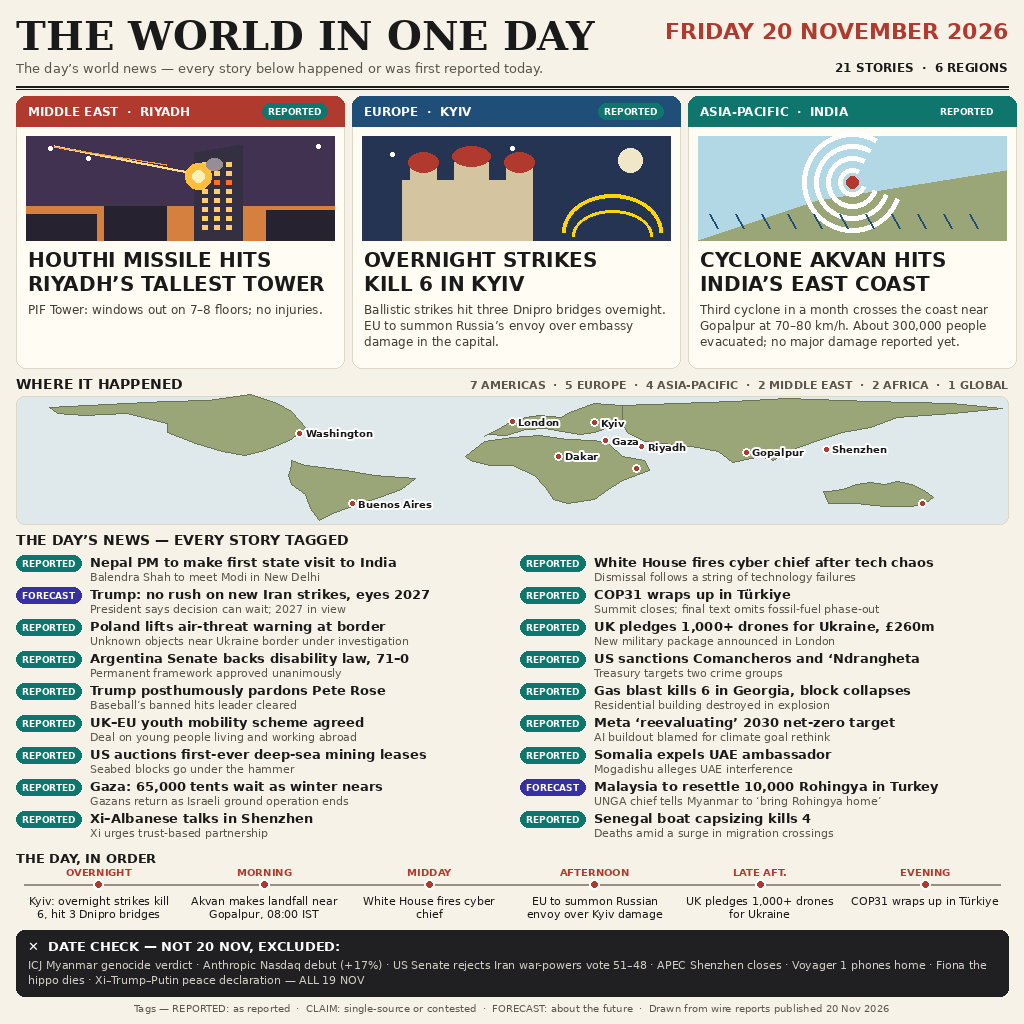
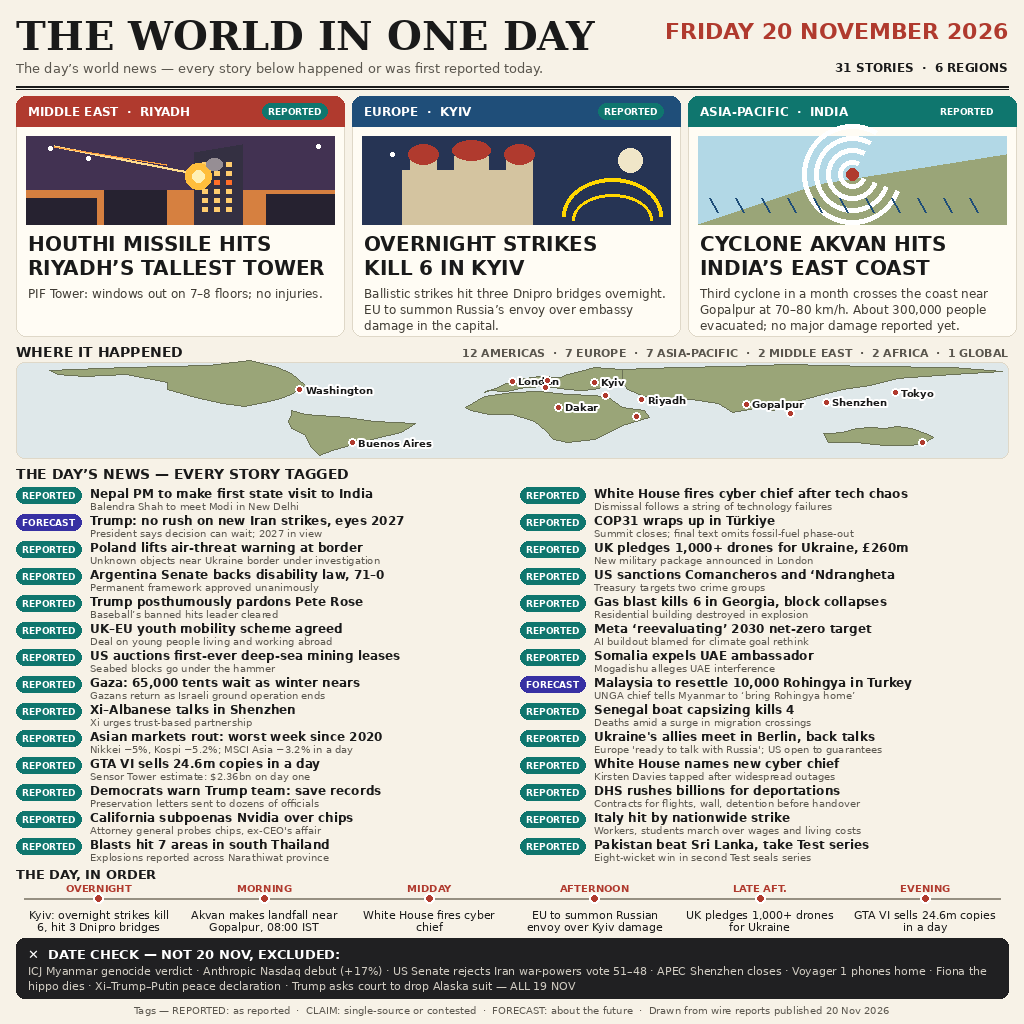
Add files via upload

Changed region(s): [[0.0, 0.125, 1.0, 1.0], [0.375, 0.125, 0.5312, 0.1875]]

diff --git a/draw.py b/draw.py
@@ -142,6 +142,26 @@ STORIES = [
      "Xi urges trust-based partnership", "REPORTED"),
     ("Senegal boat capsizing kills 4",
      "Deaths amid a surge in migration crossings", "REPORTED"),
+    ("Asian markets rout: worst week since 2020",
+     "Nikkei \u22125%, Kospi \u22125.2%; MSCI Asia \u22123.2% in a day", "REPORTED"),
+    ("Ukraine's allies meet in Berlin, back talks",
+     "Europe 'ready to talk with Russia'; US open to guarantees", "REPORTED"),
+    ("GTA VI sells 24.6m copies in a day",
+     "Sensor Tower estimate: $2.36bn on day one", "REPORTED"),
+    ("White House names new cyber chief",
+     "Kirsten Davies tapped after widespread outages", "REPORTED"),
+    ("Democrats warn Trump team: save records",
+     "Preservation letters sent to dozens of officials", "REPORTED"),
+    ("DHS rushes billions for deportations",
+     "Contracts for flights, wall, detention before handover", "REPORTED"),
+    ("California subpoenas Nvidia over chips",
+     "Attorney general probes chips, ex-CEO's affair", "REPORTED"),
+    ("Italy hit by nationwide strike",
+     "Workers, students march over wages and living costs", "REPORTED"),
+    ("Blasts hit 7 areas in south Thailand",
+     "Explosions reported across Narathiwat province", "REPORTED"),
+    ("Pakistan beat Sri Lanka, take Test series",
+     "Eight-wicket win in second Test seals series", "REPORTED"),
 ]
 
 TIMELINE = [
@@ -150,13 +170,14 @@ TIMELINE = [
     ("MIDDAY", "White House fires cyber chief"),
     ("AFTERNOON", "EU to summon Russian envoy over Kyiv damage"),
     ("LATE AFT.", "UK pledges 1,000+ drones for Ukraine"),
-    ("EVENING", "COP31 wraps up in Türkiye"),
+    ("EVENING", "GTA VI sells 24.6m copies in a day"),
 ]
 
 EXCLUDED = ("ICJ Myanmar genocide verdict  ·  Anthropic Nasdaq debut (+17%)  ·  "
             "US Senate rejects Iran war-powers vote 51\u201348  ·  APEC Shenzhen closes  ·  "
             "Voyager 1 phones home  ·  Fiona the hippo dies  ·  "
-            "Xi\u2013Trump\u2013Putin peace declaration  \u2014  ALL 19 NOV")
+            "Xi\u2013Trump\u2013Putin peace declaration  ·  "
+            "Trump asks court to drop Alaska suit  \u2014  ALL 19 NOV")
 
 # Rough continent outlines in (lon, lat); drawn on an equirectangular strip.
 CONTINENTS = [
@@ -186,8 +207,9 @@ CONTINENTS = [
 MAP_POINTS = [
     (114, 22, "Shenzhen"), (30, 50, "Kyiv"), (47, 25, "Riyadh"),
     (-77, 39, "Washington"), (85, 19, "Gopalpur"), (0, 51, "London"),
-    (-58, -35, "Buenos Aires"), (45, 2, None), (34, 31, "Gaza"),
-    (149, -35, None), (17, 15, "Dakar"),
+    (-58, -35, "Buenos Aires"), (45, 2, None), (34, 31, None),
+    (149, -35, None), (17, 15, "Dakar"), (139, 35, "Tokyo"),
+    (13, 52, None), (12, 42, None), (101, 6, None),
 ]
 
 
@@ -250,9 +272,9 @@ def draw_art(draw, kind, x, y, w, h):
             draw.ellipse([sx - 2, sy - 2, sx + 2, sy + 2], fill=WHITE)
         draw.ellipse([x + w - 52, y + 12, x + w - 28, y + 36],
                      fill=(240, 230, 200))
-        bx, by = x + 40, y + h - 60
+        bx, by = x + 40, y + h - 54
         draw.rectangle([bx, by, bx + 130, y + h], fill=(212, 196, 160))
-        for dx, dw, dh in [(8, 26, 26), (52, 34, 32), (104, 26, 26)]:
+        for dx, dw, dh in [(8, 26, 24), (52, 34, 28), (104, 26, 24)]:
             draw.rectangle([bx + dx, by - dh + 14, bx + dx + dw, by + 14],
                            fill=(212, 196, 160))
             draw.ellipse([bx + dx - 2, by - dh - 2, bx + dx + dw + 2,
@@ -284,10 +306,10 @@ def draw_card(draw, card, x, y, w, h):
     draw.text((x + 12, y + 8), card["kicker"], font=font(BOLD, 12), fill=WHITE)
     chip(draw, x + w - 82, y + 7, card["tag"], font(BOLD, 9))
     # illustration
-    draw_art(draw, card["art"], x + 10, y + 40, w - 20, 104)
+    draw_art(draw, card["art"], x + 10, y + 40, w - 20, 88)
     # headline
     f_head = font(BOLD, 20)
-    hy = y + 152
+    hy = y + 136
     for line in card["head"].split("\n"):
         draw.text((x + 12, hy), line, font=f_head, fill=INK)
         hy += 24
@@ -295,7 +317,7 @@ def draw_card(draw, card, x, y, w, h):
     f_sub = font(REG, 12)
     lines = wrap(draw, card["sub"], f_sub, w - 24)
     sy = hy + 6
-    for line in lines[:4]:
+    for line in lines[:3]:
         draw.text((x + 12, sy), line, font=f_sub, fill=(64, 60, 52))
         sy += 16
 
@@ -334,7 +356,7 @@ def main():
     d.text((MARGIN, 60),
            "The day\u2019s world news \u2014 every story below happened or was first reported today.",
            font=font(REG, 13), fill=GRAY)
-    d.text((W - MARGIN, 60), "21 STORIES  ·  6 REGIONS", font=font(BOLD, 12),
+    d.text((W - MARGIN, 60), "31 STORIES  ·  6 REGIONS", font=font(BOLD, 12),
            fill=INK, anchor="ra")
     d.line([(MARGIN, 86), (W - MARGIN, 86)], fill=INK, width=2)
     d.line([(MARGIN, 89), (W - MARGIN, 89)], fill=INK, width=1)
@@ -342,58 +364,58 @@ def main():
     # ---- three lead cards
     cw, gap = 328, 8
     for i, card in enumerate(CARDS):
-        draw_card(d, card, MARGIN + i * (cw + gap), 96, cw, 272)
+        draw_card(d, card, MARGIN + i * (cw + gap), 96, cw, 240)
 
     # ---- world map strip
-    d.text((MARGIN, 376), "WHERE IT HAPPENED", font=font(BOLD, 14), fill=INK)
-    d.text((W - MARGIN, 378),
-           "7 AMERICAS  ·  5 EUROPE  ·  4 ASIA-PACIFIC  ·  2 MIDDLE EAST  ·  "
+    d.text((MARGIN, 344), "WHERE IT HAPPENED", font=font(BOLD, 14), fill=INK)
+    d.text((W - MARGIN, 346),
+           "12 AMERICAS  ·  7 EUROPE  ·  7 ASIA-PACIFIC  ·  2 MIDDLE EAST  ·  "
            "2 AFRICA  ·  1 GLOBAL",
            font=font(BOLD, 11), fill=GRAY, anchor="ra")
-    draw_map(d, MARGIN, 396, W - 2 * MARGIN, 128)
+    draw_map(d, MARGIN, 362, W - 2 * MARGIN, 96)
 
     # ---- story grid
-    d.text((MARGIN, 532), "THE DAY\u2019S NEWS \u2014 EVERY STORY TAGGED",
+    d.text((MARGIN, 466), "THE DAY\u2019S NEWS \u2014 EVERY STORY TAGGED",
            font=font(BOLD, 14), fill=INK)
-    f_head, f_sub, f_tag = font(BOLD, 13), font(REG, 11), font(BOLD, 9)
+    f_head, f_sub, f_tag = font(BOLD, 12), font(REG, 10), font(BOLD, 9)
     col_w = 488
     for i, (head, sub, tag) in enumerate(STORIES):
         col = i % 2
         row = i // 2
         x = MARGIN + col * (col_w + 16)
-        y = 554 + row * 32
+        y = 486 + row * 27
         chip(d, x, y + 1, tag, f_tag)
         d.text((x + 74, y), head, font=f_head, fill=INK)
-        d.text((x + 74, y + 16), sub, font=f_sub, fill=GRAY)
+        d.text((x + 74, y + 14), sub, font=f_sub, fill=GRAY)
 
     # ---- timeline
-    d.text((MARGIN, 850), "THE DAY, IN ORDER", font=font(BOLD, 13), fill=INK)
-    d.line([(MARGIN + 8, 884), (W - MARGIN - 8, 884)], fill=(150, 144, 130),
+    d.text((MARGIN, 866), "THE DAY, IN ORDER", font=font(BOLD, 13), fill=INK)
+    d.line([(MARGIN + 8, 898), (W - MARGIN - 8, 898)], fill=(150, 144, 130),
            width=2)
     slot = (W - 2 * MARGIN) / len(TIMELINE)
     for i, (when, what) in enumerate(TIMELINE):
         cx = MARGIN + slot * i + slot / 2
-        d.ellipse([cx - 5, 879, cx + 5, 889], fill=RED, outline=WHITE, width=2)
-        d.text((cx, 866), when, font=font(BOLD, 10), fill=RED, anchor="ma")
+        d.ellipse([cx - 5, 893, cx + 5, 903], fill=RED, outline=WHITE, width=2)
+        d.text((cx, 882), when, font=font(BOLD, 10), fill=RED, anchor="ma")
         lines = wrap(d, what, font(REG, 11), slot - 14)
-        ty = 894
+        ty = 908
         for line in lines[:2]:
             d.text((cx, ty), line, font=font(REG, 11), fill=INK, anchor="ma")
-            ty += 13
+            ty += 12
 
     # ---- date check strip
-    d.rounded_rectangle([MARGIN, 930, W - MARGIN, 996], radius=8, fill=DARK)
-    d.text((MARGIN + 12, 938), "\u2715  DATE CHECK \u2014 NOT 20 NOV, EXCLUDED:",
+    d.rounded_rectangle([MARGIN, 938, W - MARGIN, 998], radius=8, fill=DARK)
+    d.text((MARGIN + 12, 946), "\u2715  DATE CHECK \u2014 NOT 20 NOV, EXCLUDED:",
            font=font(BOLD, 13), fill=WHITE)
     f_exc = font(REG, 11)
     lines = wrap(d, EXCLUDED, f_exc, W - 2 * MARGIN - 24)
-    ey = 958
+    ey = 964
     for line in lines[:2]:
         d.text((MARGIN + 12, ey), line, font=f_exc, fill=(210, 205, 195))
         ey += 15
 
     # ---- footer
-    d.text((W // 2, 1002),
+    d.text((W // 2, 1004),
            "Tags \u2014 REPORTED: as reported  ·  CLAIM: single-source or contested  ·  "
            "FORECAST: about the future  ·  Drawn from wire reports published 20 Nov 2026",
            font=font(REG, 10), fill=GRAY, anchor="ma")
